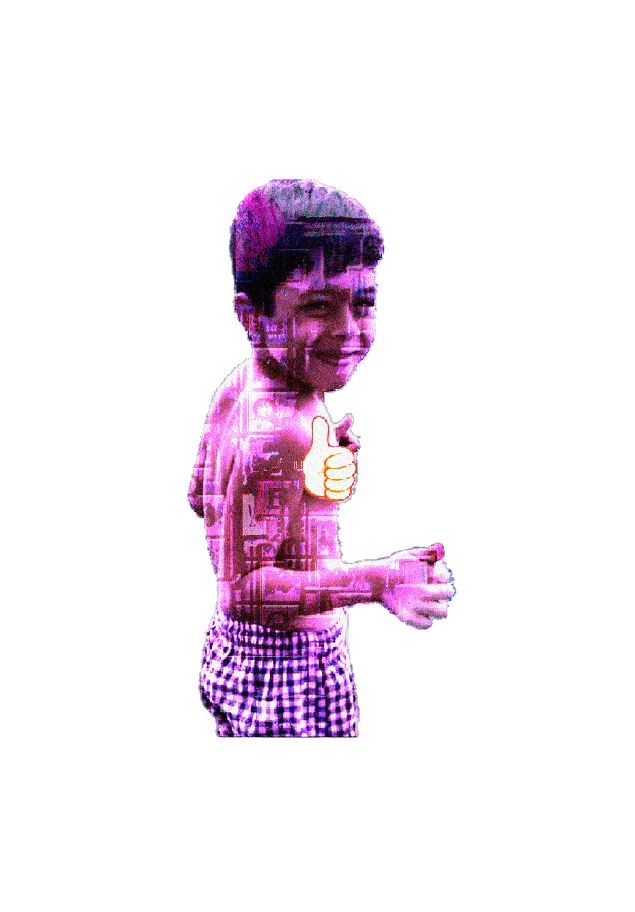
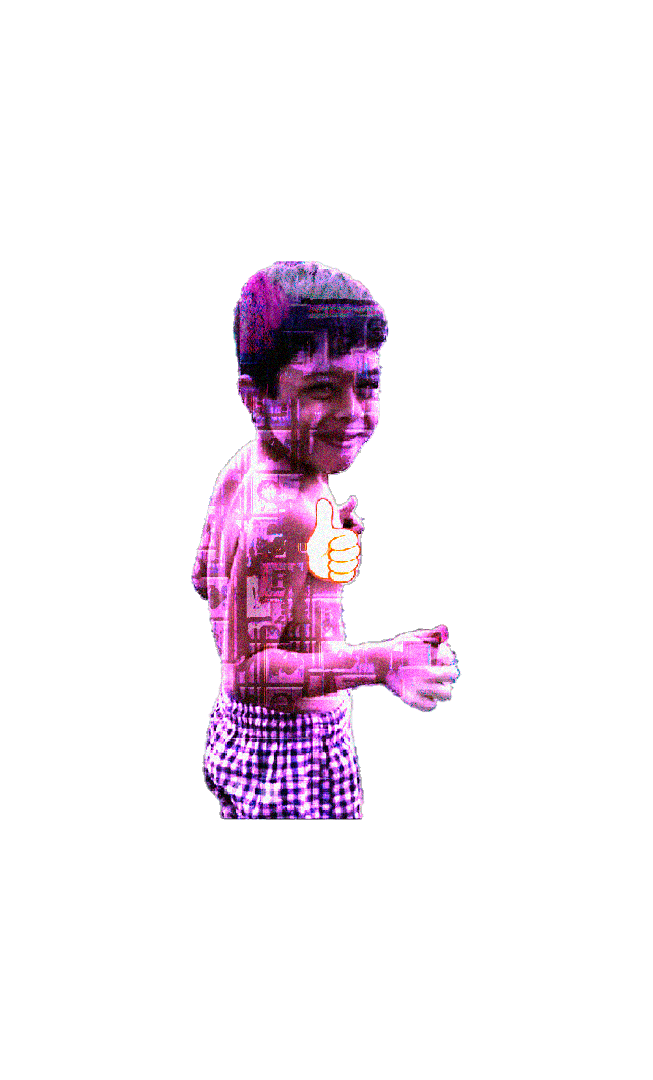
Keep shared portrait frame and sizing for all three updated photos

Changed region(s): [[0.2693, 0.1842, 0.7181, 0.8289]]

diff --git a/about.js b/about.js
@@ -3,12 +3,11 @@
   if (!carousel) return;
   const portrait = carousel.querySelector('.about-portrait');
   const photo = portrait.querySelector('.about-person');
-  const frame = portrait.querySelector('.about-window');
   const status = carousel.querySelector('.about-photo-status');
   const photos = [
     { src: './assets/sobremi-personaje.webp', alt: 'Retrato de Ian delante de una ventana gráfica retro' },
-    { src: './assets/sobremi-foto-2.png', alt: 'Foto de Ian con efecto rosa y glitch' },
-    { src: './assets/sobremi-foto-3.png', alt: 'Foto de Ian con sombrero y una luz verde' }
+    { src: './assets/sobremi-foto-2.png?v=framed-2', alt: 'Foto de Ian con efecto rosa y glitch' },
+    { src: './assets/sobremi-foto-3.png?v=framed-2', alt: 'Foto de Ian con sombrero y una luz verde' }
   ];
   let index = 0;
   photos.slice(1).forEach(item => { const image = new Image(); image.src = item.src; });
@@ -17,8 +16,6 @@
     photo.src = photos[index].src;
     photo.alt = photos[index].alt;
     portrait.setAttribute('aria-label', photos[index].alt);
-    frame.hidden = index !== 0;
-    portrait.classList.toggle('about-portrait--extra', index !== 0);
     status.textContent = `Foto ${index + 1} de ${photos.length}`;
   }
   carousel.querySelector('.about-photo-arrow--previous').addEventListener('click', () => showPhoto(-1));

diff --git a/inicio.html b/inicio.html
@@ -10,7 +10,7 @@
     <link rel="stylesheet" href="./styles.css?v=tag-readable-20261021" />
       <link rel="stylesheet" href="./effects.css?v=tag-readable-20261021" />
       <link rel="stylesheet" href="./life.css" />
-      <link rel="stylesheet" href="./about.css?v=20261022-photos" />
+      <link rel="stylesheet" href="./about.css?v=20261022-framed-2" />
   </head>
   <body class="about-screen">
     <video class="page-background-video about-background-video" autoplay muted loop playsinline preload="metadata" aria-hidden="true"><source src="./assets/fondos/sobre%20mi.webm" type="video/webm" /></video>
@@ -69,7 +69,7 @@
         </div>
       </section>
     </main>
-      <script src="./about.js?v=20261022-photos" defer></script>
+      <script src="./about.js?v=20261022-framed-2" defer></script>
       <script src="./i18n.js?v=support-ticket-chat-1" defer></script>
       <script src="./effects.js?v=inline-editor-news-1" defer></script>
   </body>

diff --git a/about.css b/about.css
@@ -48,7 +48,5 @@
 .about-photo-arrow--previous{left:0}.about-photo-arrow--next{right:0}
 .about-photo-arrow:hover,.about-photo-arrow:focus-visible{background:#392252;box-shadow:0 0 20px #b566ff77}
 .about-photo-status{position:absolute;width:1px;height:1px;padding:0;overflow:hidden;clip-path:inset(50%);white-space:nowrap}
-.about-portrait--extra .about-person{object-fit:contain;transform:scale(1.5)}
-.about-portrait--extra:hover .about-person{transform:scale(1.59) translateY(-.25rem)}
 @media(max-width:760px){.about-photo-carousel{width:auto;padding:0 30px}.about-photo-arrow{width:26px;height:26px;font-size:1.4rem}.about-photo-arrow--previous{left:0}.about-photo-arrow--next{right:0}}
 @media(prefers-reduced-motion:reduce){.about-photo-carousel .about-portrait,.about-photo-carousel .about-person{transition:none}}
